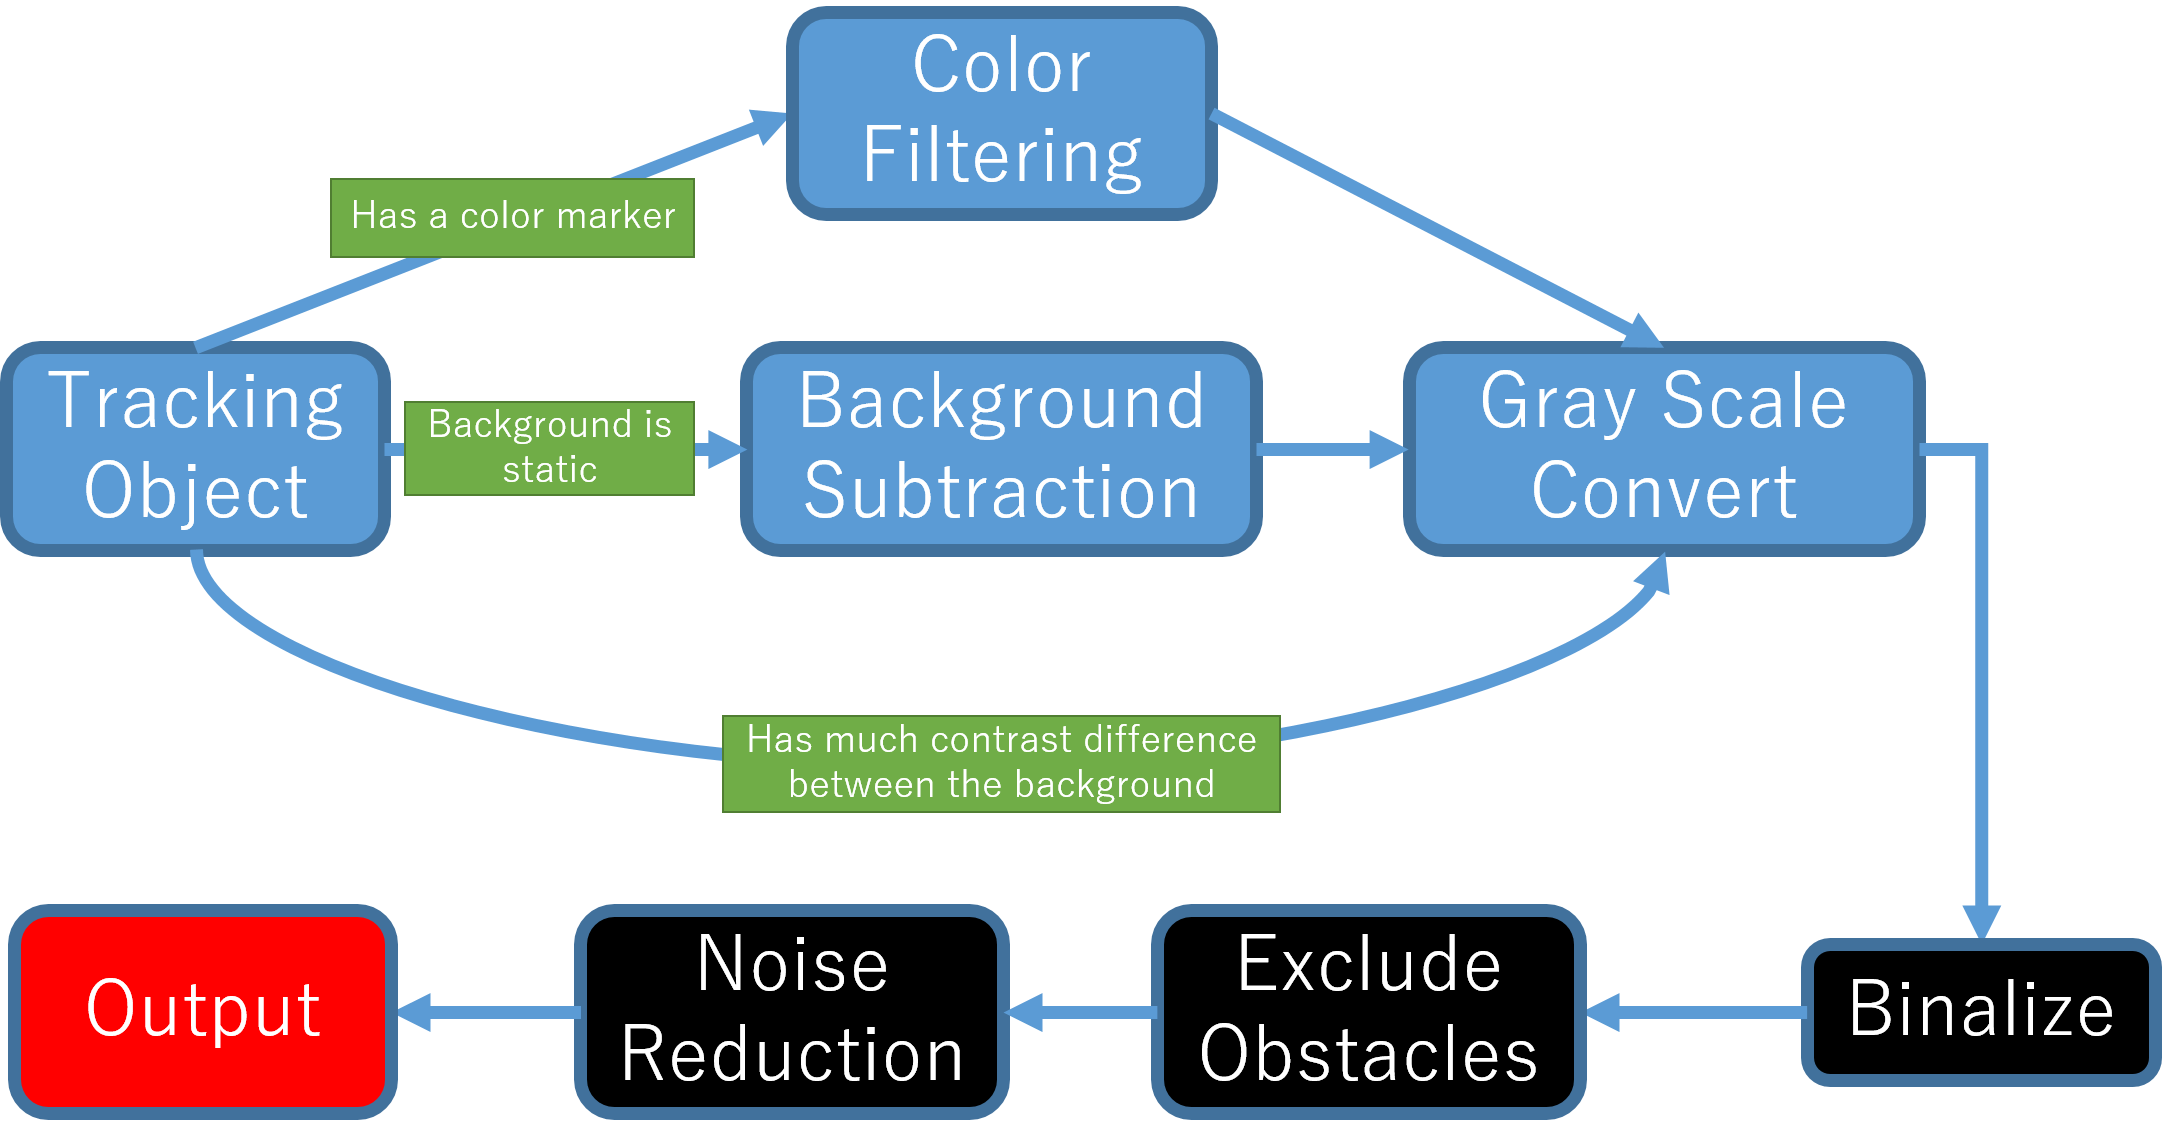
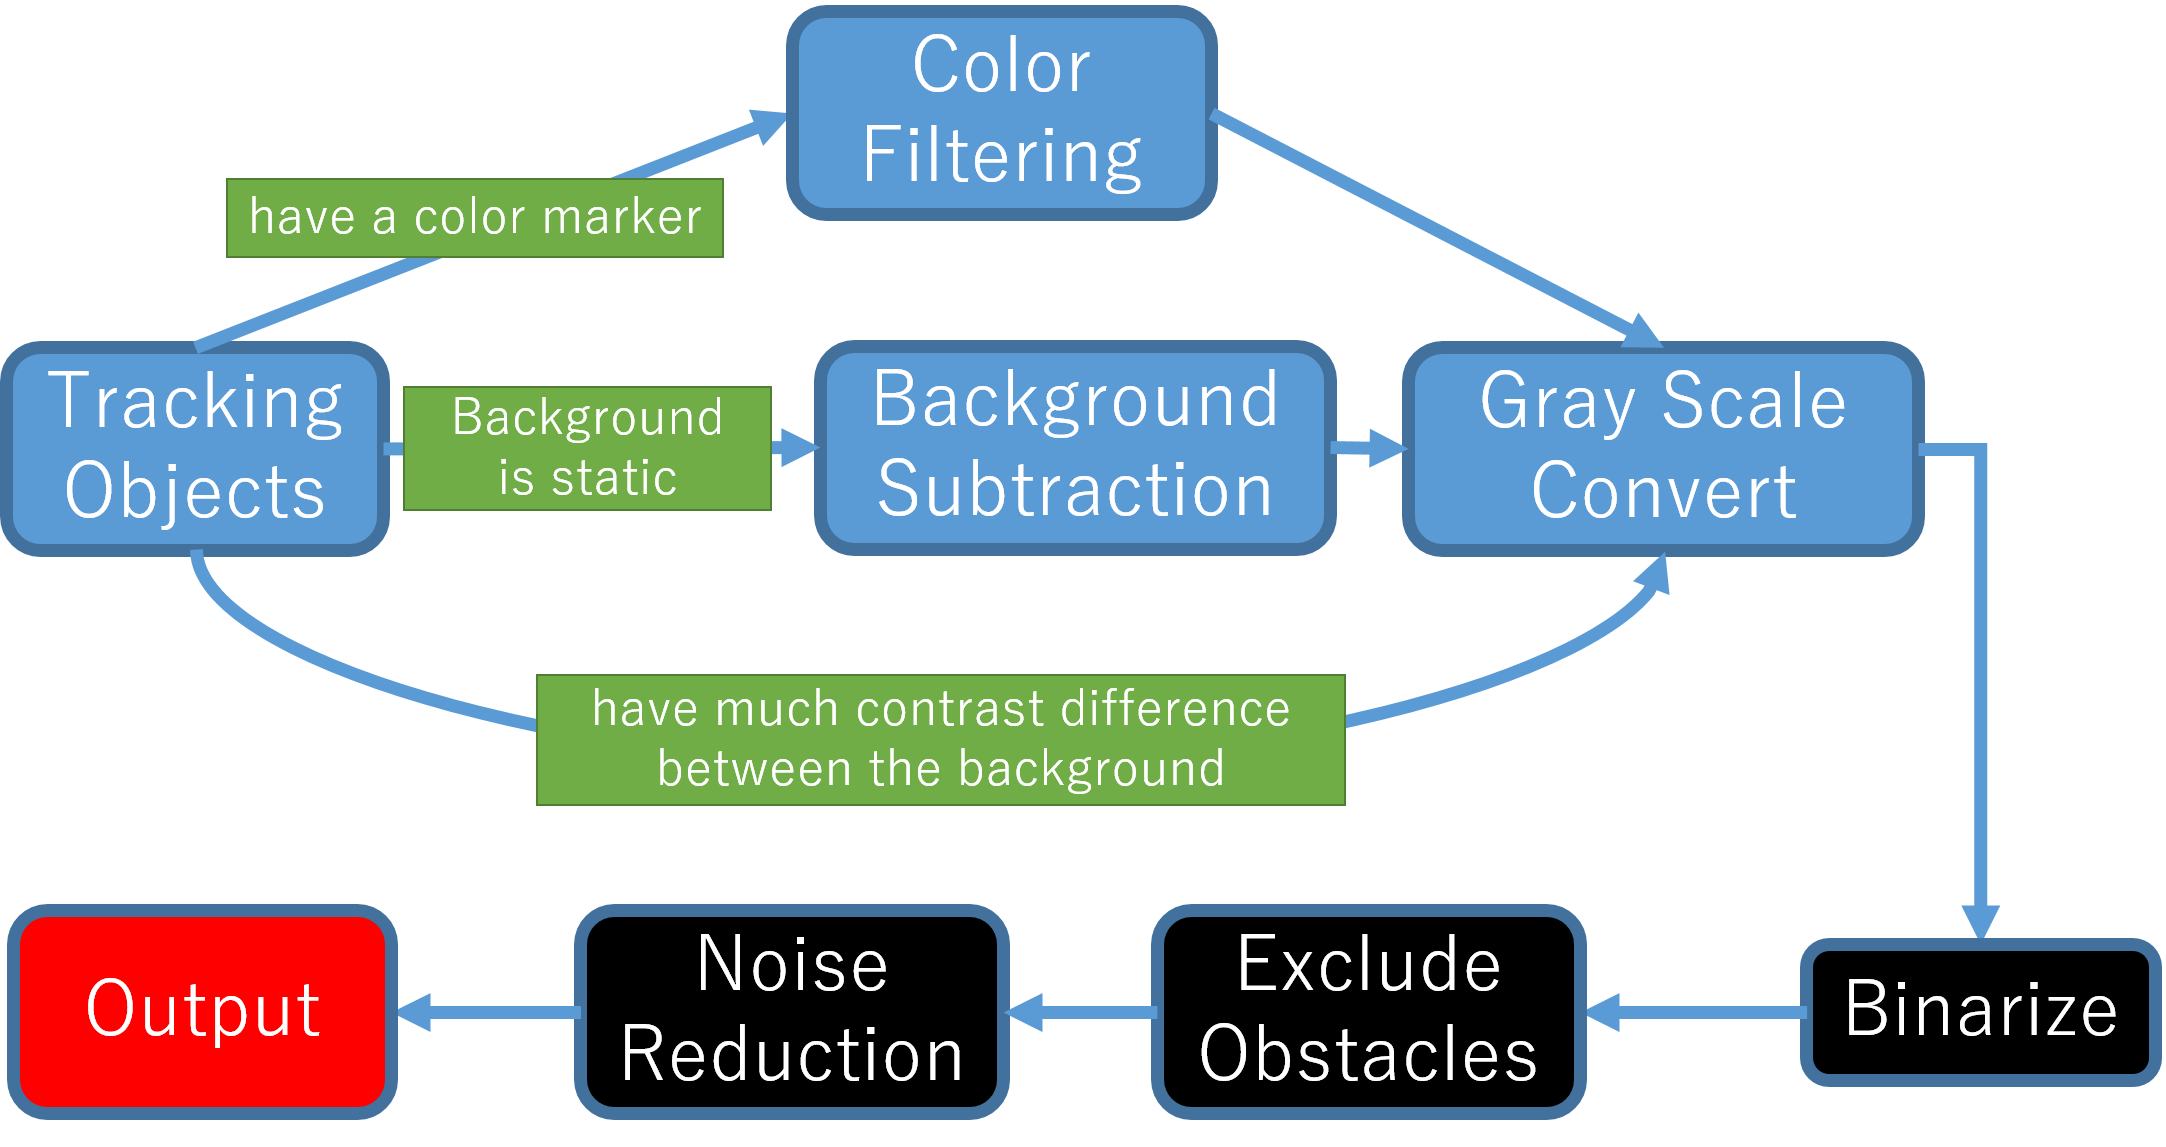
Modified the Quick ref.

diff --git a/_md/quick_ref.md b/_md/quick_ref.md
@@ -82,9 +82,9 @@
 `Input`はソフトウェアに読み込ませた動画像のことを指しており，上述の『入力画面』に表示されている動画像のことである．
 
 そして，`Output`ブロックに接続されたブロックのデータが上述の『出力画面』に表示される．
+これらの`Input`ブロックと`Output`ブロックの間に各フィルタを意味するブロックを複数挟み込むことで画像フィルタを表現することが出来る．
 この例では`Input`ブロックが`Output`ブロックに直接接続されているので，`Input`ブロックのデータ，すなわち『入力画面』に表示された動画像が
-『出力画面』に表示される．
-`Input`ブロックと`Output`ブロックの間に各フィルタを意味するブロックを複数挟み込むことで画像フィルタを表現することが出来る．
+そのまま『出力画面』に表示される．
 
 #### Add Block
 キャンバス上のブロック群へブロックを追加するには，フィルタツールチップからブロックをドラック＆ドロップすればよい．
@@ -162,7 +162,9 @@
 
 ![txt](img/quick/uma_filtergenerator_filtermakingsequence.png)
 
-
+```eval_rst
+.. youtube:: https://www.youtube.com/watch?v=PEWX8cctaSQ
+```
 
 #### Open the Video File
 メニューより`Files/Open Video File`を選択，もしくはビデオファイルをウインドウにドラッグアンドドロップすることで解析に使用するビデオを読み込む．
@@ -198,6 +200,10 @@
 ```
 
 ![txt](img/quick/uma_filtergenerator_bgsubexample.png)
+
+```eval_rst
+.. youtube:: https://www.youtube.com/watch?v=za1jzU0K56k
+```
 
 #### Color Filtering
 カラーマーカーが付いている場合など追跡物体が特徴的な色を有している場合，その色を抽出するフィルタを作成することで追跡物体を抽出することができる．
@@ -239,25 +245,79 @@
 .. warning:: 例では見た目に変化はないが，必須の作業なので二値化の前に必ずおこなうこと．
 ```
 
-#### Binalize
+#### Binarize
 
 ![txt](img/quick/uma_filtergenerator_grayscale.png)
-グレースケール画像は各ピクセルが0 - 255の値を持っており，0が黒をあらわし255に近い値であるほど白に近い値となっている．
-前述のグレースケール変換では画像の追跡したい固体の部分が明るく抜き出されているので，その部分のみを白く抜き出せば最初の目標の画像に到達できることがわかる．
+グレースケール画像は各ピクセルが0 - 255の値を持っており，値0が黒をあらわし255に近い値であるほどそのピクセルは白に近い色となる．
+前述のグレースケール変換では画像の追跡したい固体の部分が明るく抜き出されているので，その部分のみを白く抜き出せば最初の目標の画像に到達できる．
 
 そこで，`Threshold`ブロックをもちいて二値化をおこなう．
+二値化とは，グレースケール画像を白と黒の2階調画像に変換することであり，ある閾値を定めて，各ピクセルの値がその閾値を上回っているとき255（白），そうでないときは0（黒）にそのピクセルの値を変換する画像フィルタである．
 
-ブロックの右側の数値入力欄が閾値をあらわしており，
+`Threshold`ブロックの右側の数値入力欄が閾値をあらわしている．
 
-![txt](img/quick/uma_filtergenerator_binalize.png)
-![txt](img/quick/uma_filtergenerator_binalizeexample.png)
+前述でグレースケール変換を行ったアリの動画で`Threshold`ブロックを用いた例を示す．
+
+![txt](img/quick/uma_filtergenerator_binarize.png)
+![txt](img/quick/uma_filtergenerator_binarizeexample.png)
 
 #### Exclude the Obstacle by the Region Selector
+
+解析に不要な領域が個体追跡の精度に悪影響を及ぼすことがある．
+そこで範囲選択をおこなうことで，解析に不要な領域を除去する必要がある．
+
+`UMATracker-FilterGenerator`は矩形による選択`Rectangle selection`ブロック・楕円による選択`Circular selection`ブロック・任意の4頂点での範囲選択`Poly Selection`ブロックを有している．
+
+```eval_rst
+.. list-table:: Selection/Exclusion Blocks
+    :header-rows: 1
+    :widths: 2, 1, 5
+
+    * - Block Example
+      - Type
+      - Description
+    * - .. image:: img/quick/uma_filtergenerator_rectsel.png
+      - 矩形
+      - .. image:: img/quick/uma_filtergenerator_rectselexample.png
+    * - .. image:: img/quick/uma_filtergenerator_circsel.png
+      - 楕円
+      - .. image:: img/quick/uma_filtergenerator_circselexample.png
+    * - .. image:: img/quick/uma_filtergenerator_polysel.png
+      - 4頂点
+      - .. image:: img/quick/uma_filtergenerator_polyselexample.png
+```
+
+前述で二値化を行ったアリの動画で`Rectangle selection`ブロックを用いた例を示す．
+前段階ではシャーレの縁が写っていたが，`Rectangle selection`ブロックを用いることでシャーレ内のみを抜き出すことに成功している．
+
+![txt](img/quick/uma_filtergenerator_excludeblock.png)
+![txt](img/quick/uma_filtergenerator_excludeexample.png)
+
+```eval_rst
+.. youtube:: https://www.youtube.com/watch?v=NRFRUSzR6xk
+```
+
+```eval_rst
+.. youtube:: https://www.youtube.com/watch?v=fqht_bxmx3s
+```
+
+```eval_rst
+.. note:: 各ブロックのチェックボックスをオフにすると，切り取られる領域が反転する．
+```
+
 #### Noise Reduction
+動画ファイルにはノイズが必ず含まれる．ノイズの原因は，観察者の移動などで発生する照度の微妙な変化・実験環境に含まれる微妙なチリ・動物の糞など様々である．これらのノイズを極力排除することで，精度良く個体追跡をおこなえる．
+
+最も簡単なノイズ除去は`Erosion`ブロックを使うことである．
+Erosionは白色の領域を縮めるようなフィルタのことで，これを用いることで追跡物体よりも小さいノイズを除去することができる．
+![txt](img/quick/uma_filtergenerator_erosionexample.png)
+
+前述の不要な領域の除去を行ったアリの動画で`Threshold`ブロックを用いた例を示す．
+
 ![txt](img/quick/uma_filtergenerator_noisereduction.png)
 
 #### Save Filter Data
 メニューより`Files/Save Filter Data`を選択することでフィルタデータ（拡張子`.filter`）が保存される．
 ```eval_rst
-.. warning:: Gray Scale変換・Binalizeを行っていない場合は個体追跡に失敗するので，保存前にGray Scale変換・Binalizeが行われていることを確認すること．
+.. warning:: Gray Scale変換・Binarizeを行っていない場合は個体追跡に失敗するので，保存前にGray Scale変換・Binarizeが行われていることを確認すること．
 ```
